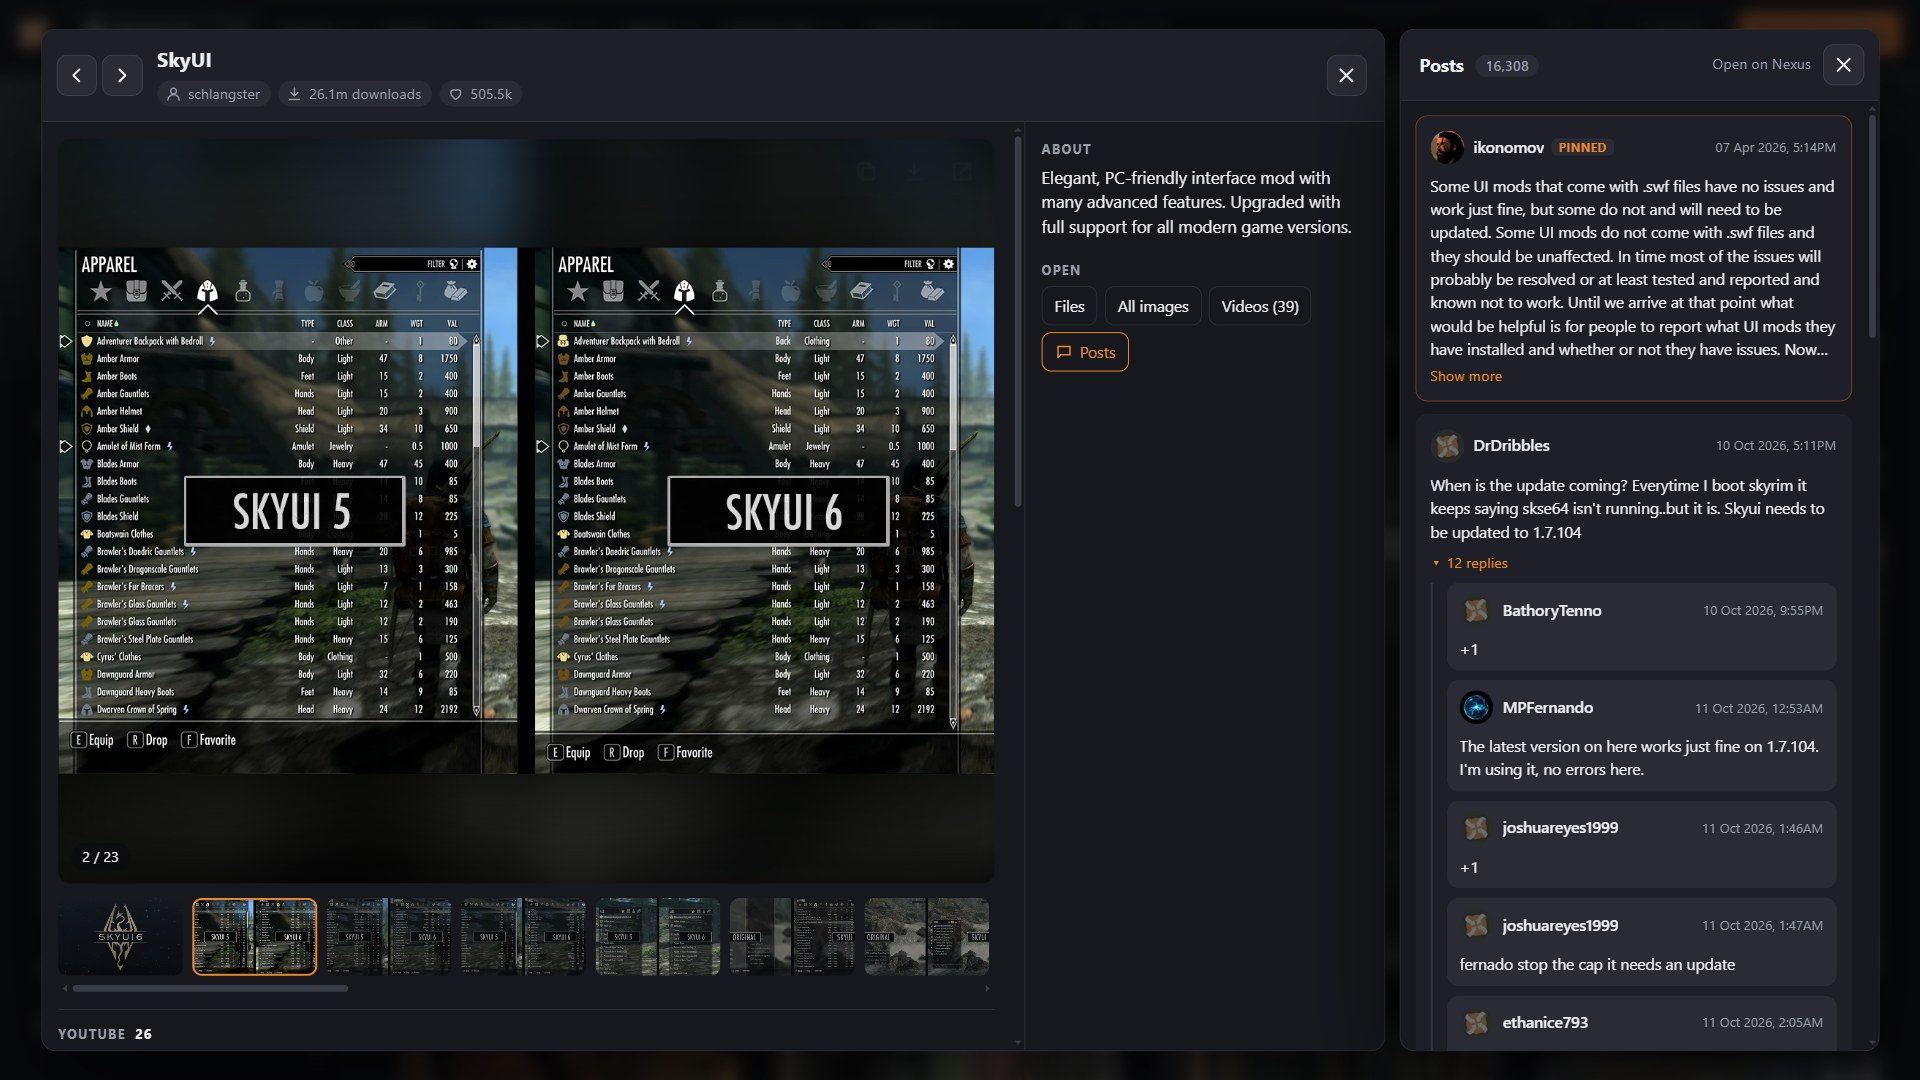
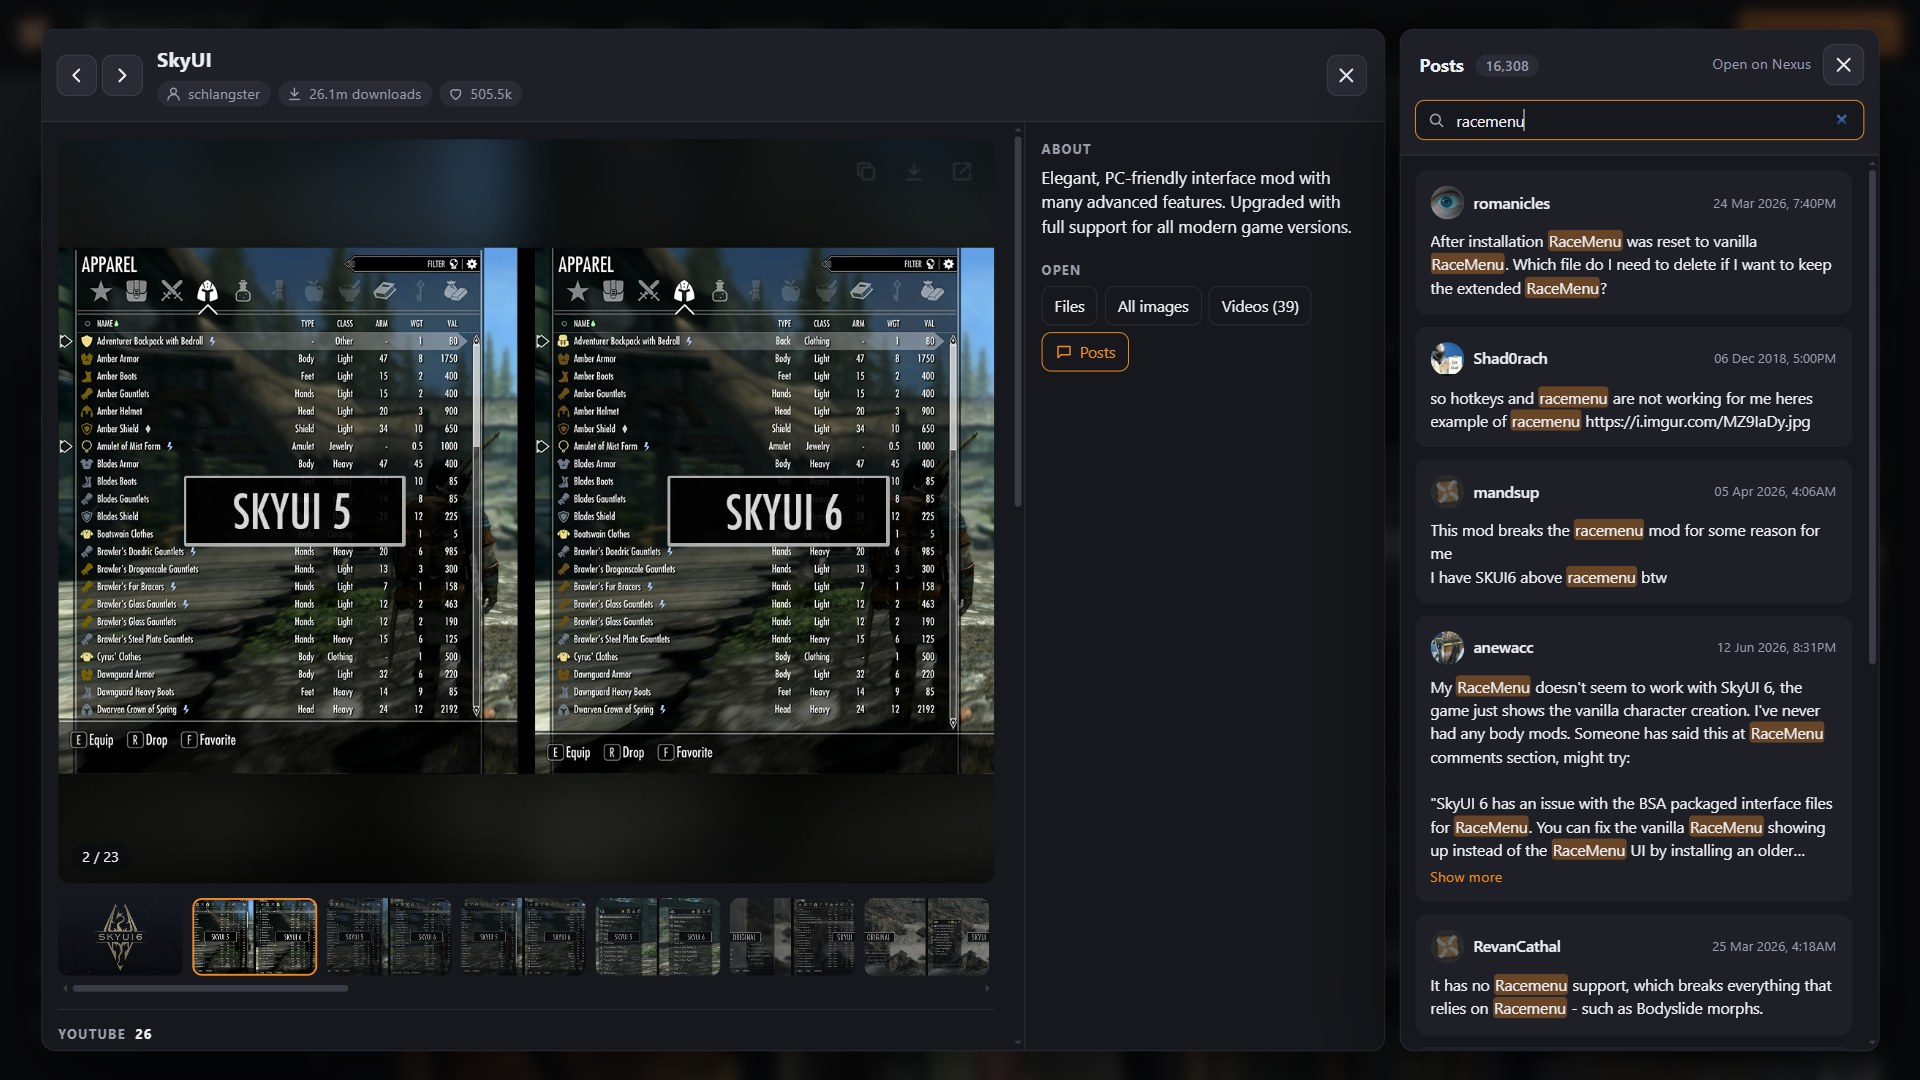
Nexus page kit: posts search capture and description refresh

Changed region(s): [[0.7188, 0.0917, 1.0, 0.9778]]

diff --git a/docs/nexus-page/README.md b/docs/nexus-page/README.md
@@ -37,7 +37,7 @@ Upload in this order; the first one becomes the card thumbnail in Nexus listings
 | `05-videos.jpg` | Gallery | YouTube videos below the screenshots, playing in place. |
 | `06-cinema.jpg` | Gallery | Cinema mode for media pages and profiles. |
 | `07-settings.jpg` | Gallery | Settings. |
-| `08-posts.jpg` | Gallery | Read the latest posts in a card beside the preview. |
+| `08-posts.jpg` | Gallery | Read and search the mod's posts in a card beside the preview. |
 | `header.jpg` (1920×480) | Page header | — |
 
 All captures are 1920×1080, taken on the live site logged out, on safe-for-work mods. If Nexus asks
